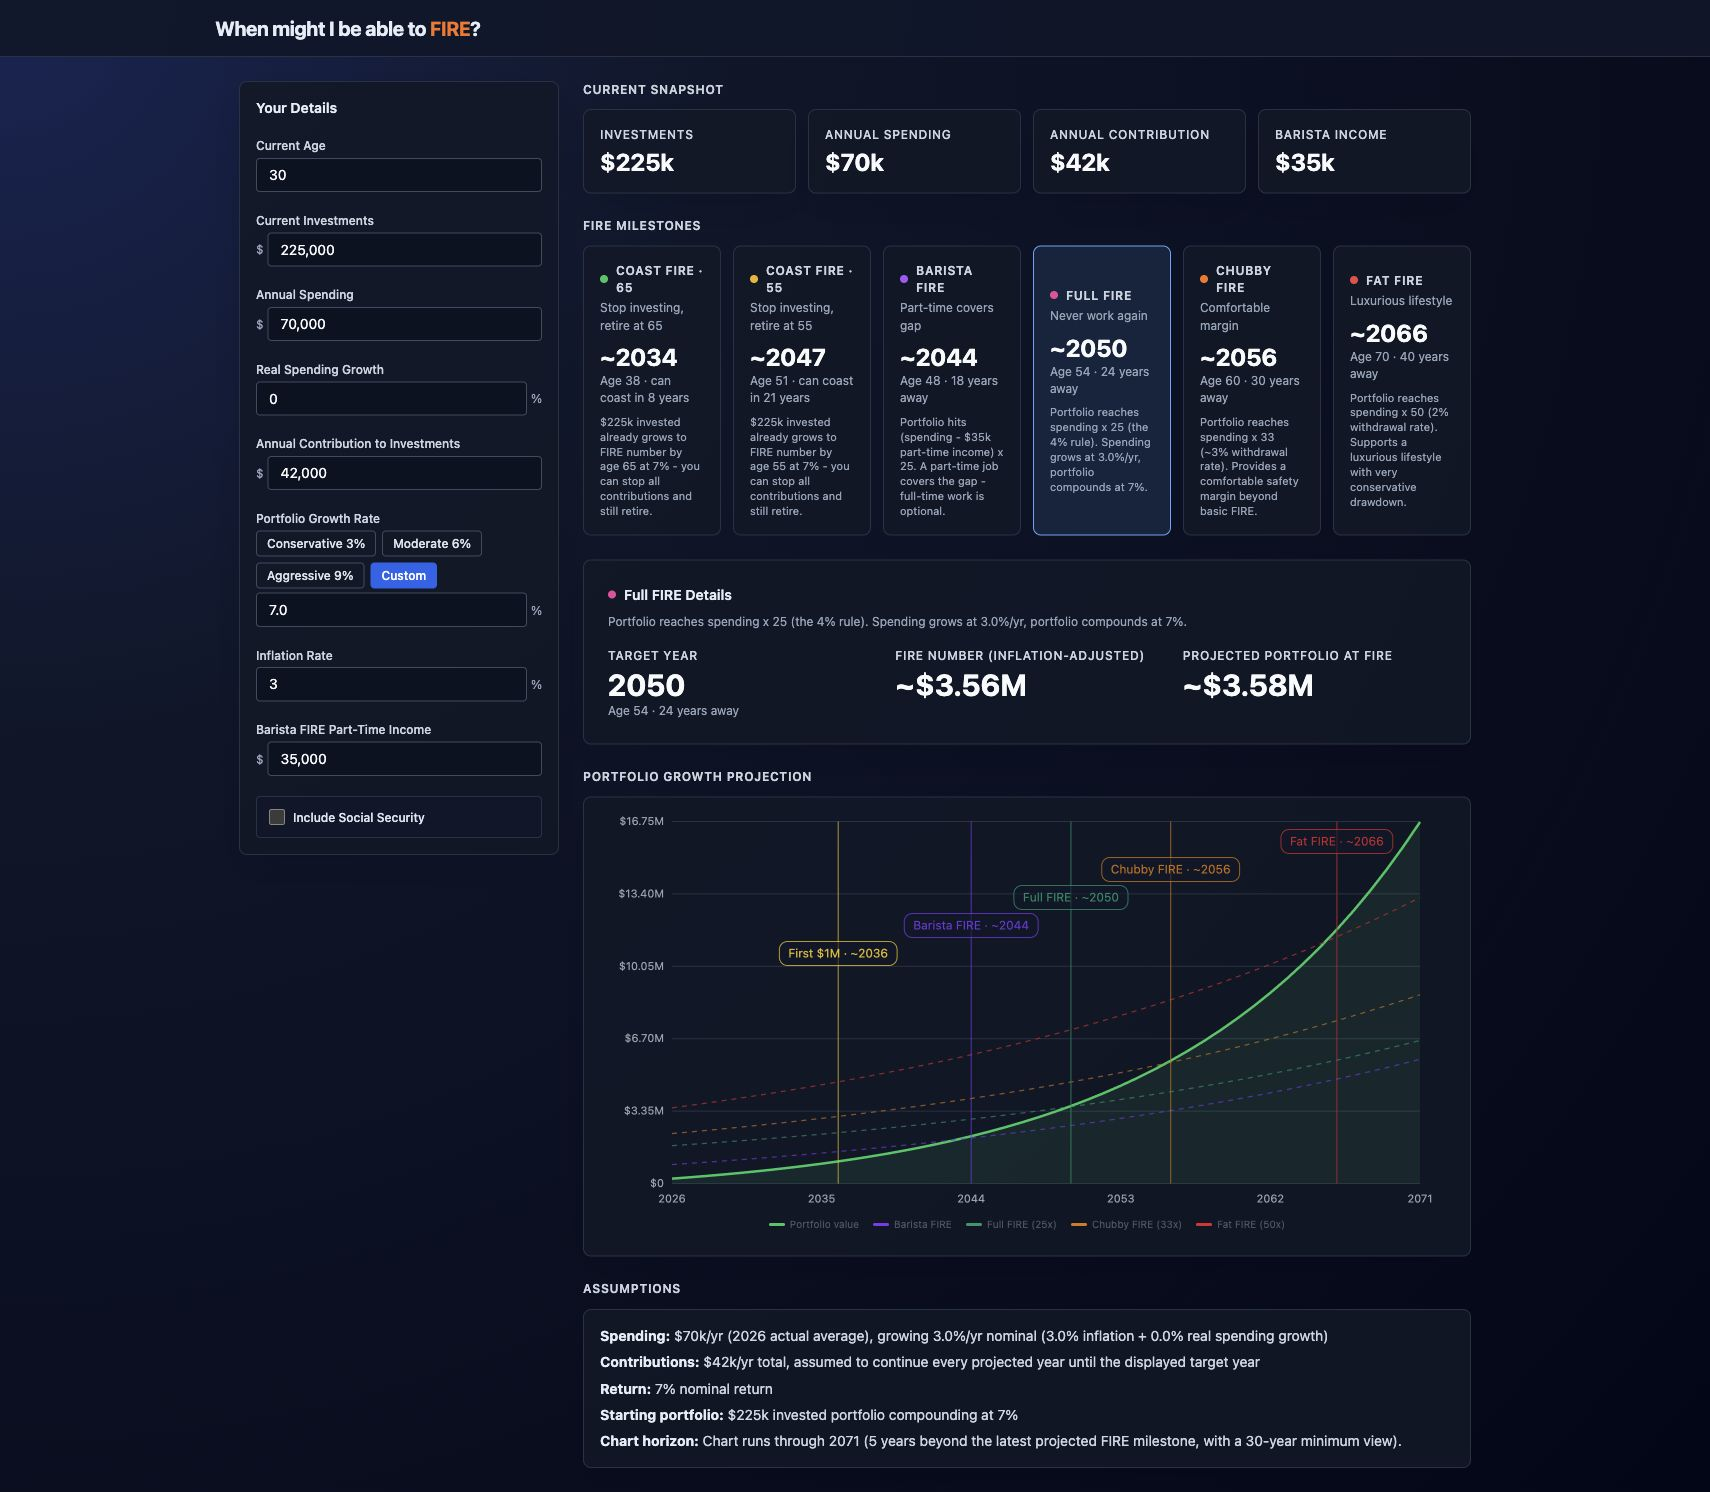
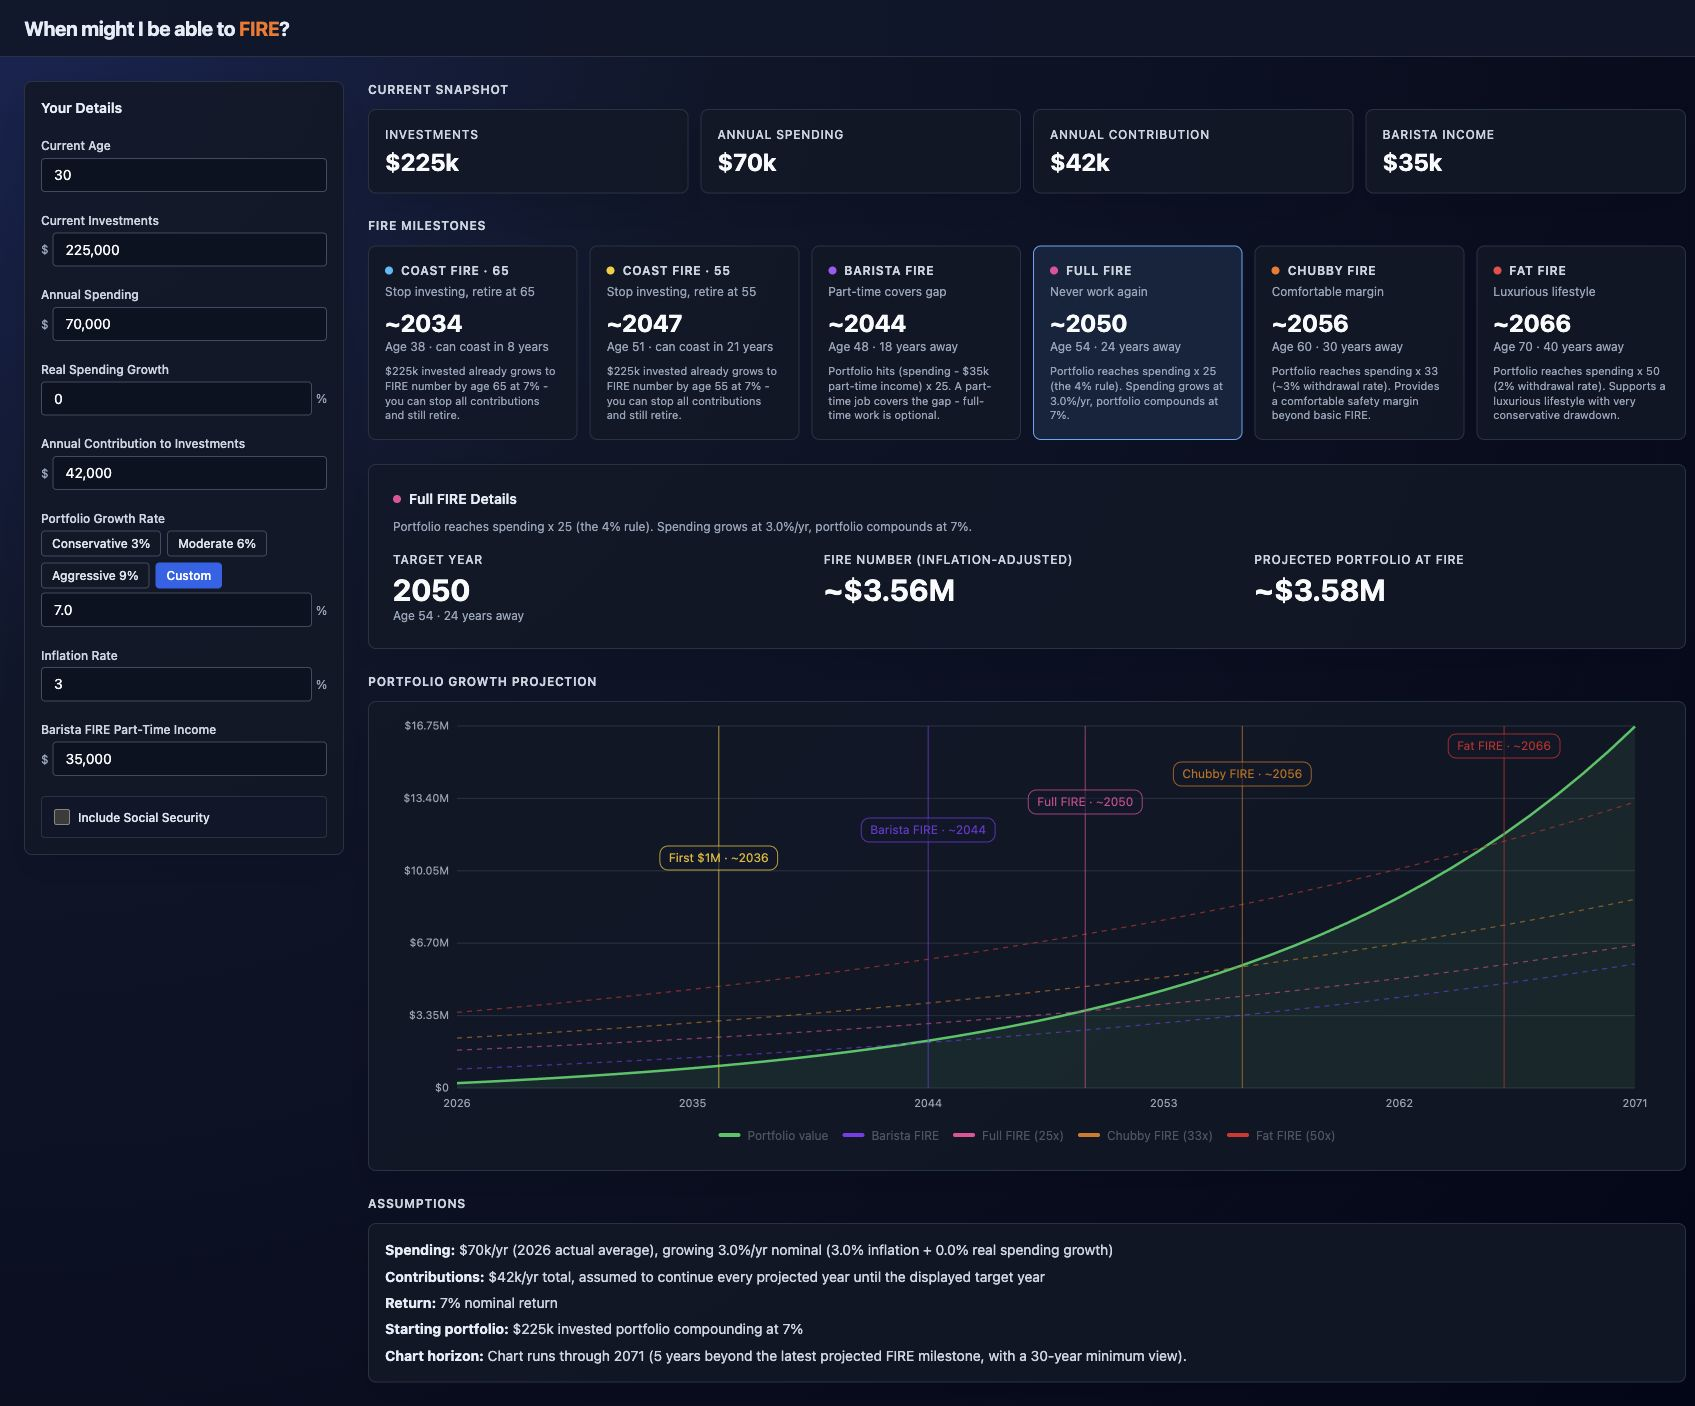
Refine dashboard layout and footer

diff --git a/index.html b/index.html
@@ -63,8 +63,7 @@
     }
 
     .site-header-inner {
-      max-width: 1280px;
-      margin: 0 auto;
+      width: 100%;
       display: flex;
       align-items: center;
       justify-content: space-between;
@@ -84,8 +83,7 @@
     }
 
     .layout {
-      max-width: 1280px;
-      margin: 0 auto;
+      width: 100%;
       display: flex;
       flex-direction: column;
       gap: 24px;
@@ -296,9 +294,10 @@
     }
 
     .milestone-card {
-      display: grid;
+      display: flex;
+      flex-direction: column;
+      align-items: flex-start;
       align-content: start;
-      grid-template-rows: 36px 44px auto auto 1fr;
       appearance: none;
       width: 100%;
       border: 1px solid var(--gray-200);
@@ -354,7 +353,6 @@
 
     .milestone-desc {
       margin-top: 4px;
-      min-height: 34px;
     }
 
     .milestone-year {
@@ -476,6 +474,24 @@
 
     .assumptions strong {
       color: var(--gray-700);
+    }
+
+    .site-footer {
+      padding: 0 16px 24px;
+      color: var(--gray-400);
+      font-size: 12px;
+      line-height: 1.5;
+      text-align: center;
+    }
+
+    .site-footer a {
+      color: var(--gray-500);
+      text-decoration: none;
+    }
+
+    .site-footer a:hover {
+      color: var(--gray-700);
+      text-decoration: underline;
     }
 
     .hidden {
@@ -682,6 +698,10 @@
       </div>
     </main>
   </div>
+
+  <footer class="site-footer">
+    <a href="https://github.com/jonfairbanks/fire-calc" target="_blank" rel="noopener noreferrer">View on GitHub</a>
+  </footer>
 
   <script>
     const DEFAULT_INPUTS = {

diff --git a/README.md b/README.md
@@ -2,6 +2,8 @@
 
 A simple, standalone calculator for exploring when you might be able to reach different FIRE milestones.
 
+All data stays local and does not leave your browser.
+
 ![FIRE Calculator dashboard](dashboard.png)
 
 ## What It Shows
@@ -11,7 +13,7 @@ A simple, standalone calculator for exploring when you might be able to reach di
 - How inflation, annual contributions, and portfolio growth affect the timeline.
 - A portfolio projection chart with key milestone markers.
 
-The numbers are estimates, not financial advice. Small changes to return, inflation, spending, or contributions can move the results by years.
+**The numbers are estimates, not financial advice.** Small changes to return, inflation, spending, or contributions can move the results by years.
 
 ## Main Assumptions
 